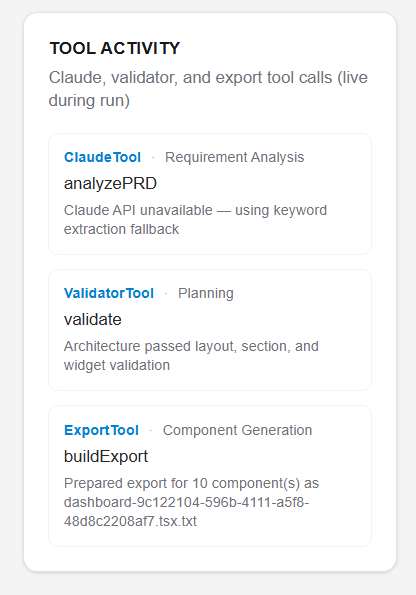
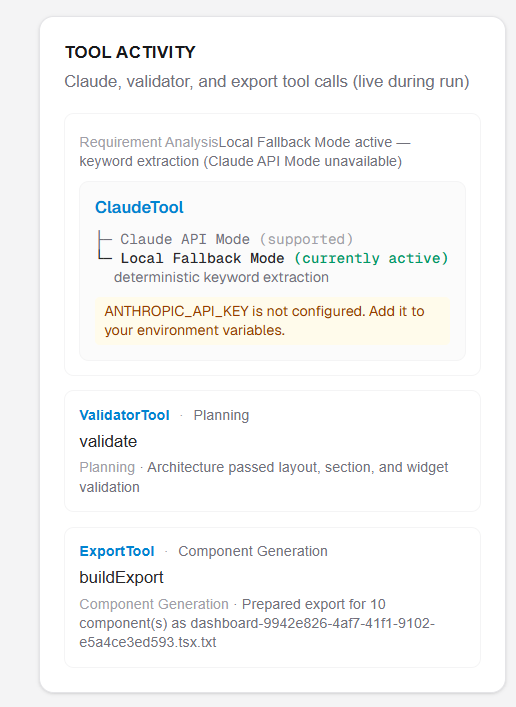
claude tool dual mode updated

Changed region(s): [[0.0938, 0.0605, 0.9062, 0.5445], [0.0938, 0.5748, 0.9375, 0.9681]]

diff --git a/src/components/dashboard-architect.tsx b/src/components/dashboard-architect.tsx
@@ -737,7 +737,7 @@ export function DashboardArchitect() {
 
             <Card
               title="Memory History"
-              description="Saved generations in browser localStorage"
+              description="Persistent localStorage — Full Snapshot restores analysis, code, tools, and execution"
             >
               {history.length > 0 ? (
                 <ul className="grid gap-3 sm:grid-cols-2">
@@ -765,7 +765,7 @@ export function DashboardArchitect() {
                         </p>
                         {entry.snapshot ? (
                           <p className="mt-1 text-xs font-medium text-emerald-600 dark:text-emerald-400">
-                            Full snapshot
+                            Full Snapshot
                           </p>
                         ) : null}
                       </button>

diff --git a/README.md b/README.md
@@ -216,11 +216,11 @@ Persists dashboard generations in **browser `localStorage`** (key: `iot-dashboar
 
 | Method | Description |
 |--------|-------------|
-| `saveGeneration()` | Store metadata, architecture, and optional **full pipeline snapshot** |
+| `saveGeneration()` | Store metadata, architecture, and optional **Full Snapshot** (full pipeline) |
 | `getHistory()` | All records, newest first |
 | `loadGeneration(id)` | Retrieve one generation |
 
-Each saved generation can include a `PipelineGenerationSnapshot` (analysis, components, export, toolUsage, execution, validation). The UI restores the **full dashboard state** when loading history entries that include a snapshot.
+Each saved generation can include a **Full Snapshot** (`PipelineGenerationSnapshot`: analysis, components, export, toolUsage, execution, validation). History cards show a **Full Snapshot** badge; clicking one restores the complete dashboard state.
 
 ### Live tool activity
 
@@ -430,12 +430,12 @@ npm run capture-screenshots
 | ![Dashboard overview](docs/screenshots/01-dashboard-overview.png) | Full dashboard UI |
 | ![PRD input](docs/screenshots/02-prd-input.png) | PRD textarea and Generate button |
 | ![Agent activity](docs/screenshots/03-agent-activity.png) | Pending → Running → Completed progress |
-| ![Tool activity](docs/screenshots/04-tool-activity.png) | Live Claude / Validator / Export tool cards |
+| ![Tool activity](docs/screenshots/04-tool-activity.png) | ClaudeTool dual mode tree (API vs Local Fallback) + Validator / Export |
 | ![Requirement analysis](docs/screenshots/05-requirement-analysis.png) | Structured JSON output |
 | ![Architecture](docs/screenshots/06-architecture.png) | Dashboard architecture panel |
 | ![Component tree](docs/screenshots/07-component-tree.png) | Components grouped by section |
 | ![Generated code](docs/screenshots/08-generated-code.png) | TSX export preview |
-| ![Memory history](docs/screenshots/09-memory-history.png) | Saved generations with full snapshot badge |
+| ![Memory history](docs/screenshots/09-memory-history.png) | Memory History with **Full Snapshot** badge (restores full pipeline state) |
 
 Regenerate with `npm run capture-screenshots` (dev server must be running). See `docs/screenshots/README.md`.
 

diff --git a/docs/screenshots/README.md b/docs/screenshots/README.md
@@ -19,11 +19,11 @@ npm run capture-screenshots
 | `01-dashboard-overview.png`   | Full page at 1440px width                 |
 | `02-prd-input.png`            | PRD textarea + Generate button            |
 | `03-agent-activity.png`       | Agent progress during pipeline run        |
-| `04-tool-activity.png`        | Tool activity cards (live during run)     |
+| `04-tool-activity.png`        | ClaudeTool API/Fallback mode tree + other tools |
 | `05-requirement-analysis.png` | Requirement Analysis JSON panel           |
 | `06-architecture.png`         | Dashboard Architecture panel              |
 | `07-component-tree.png`       | Component Tree by section                 |
 | `08-generated-code.png`       | Generated Code + Download export          |
-| `09-memory-history.png`       | Memory History with “Full snapshot” badge |
+| `09-memory-history.png`       | Memory History with **Full Snapshot** badge |
 
 